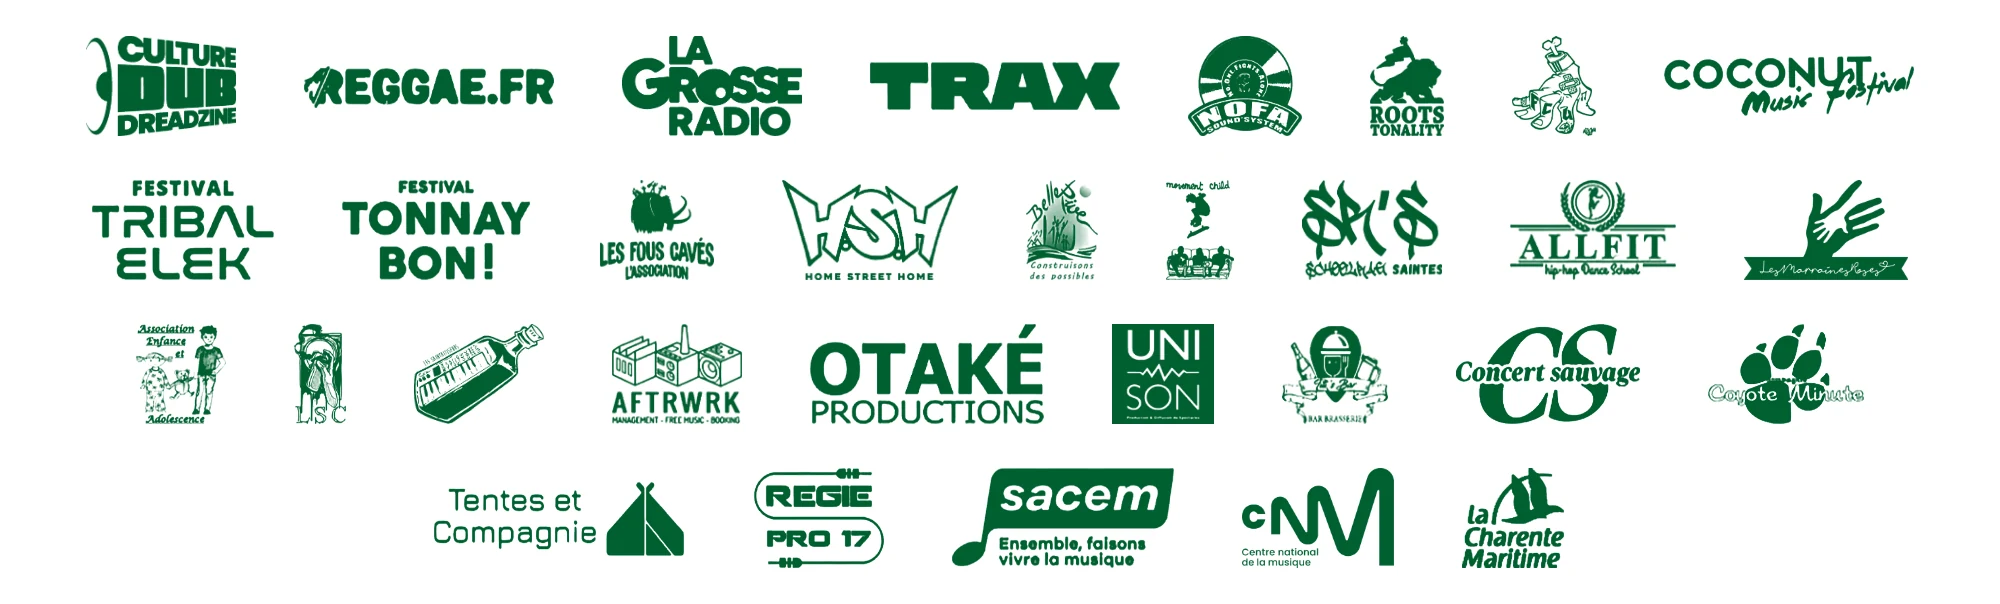
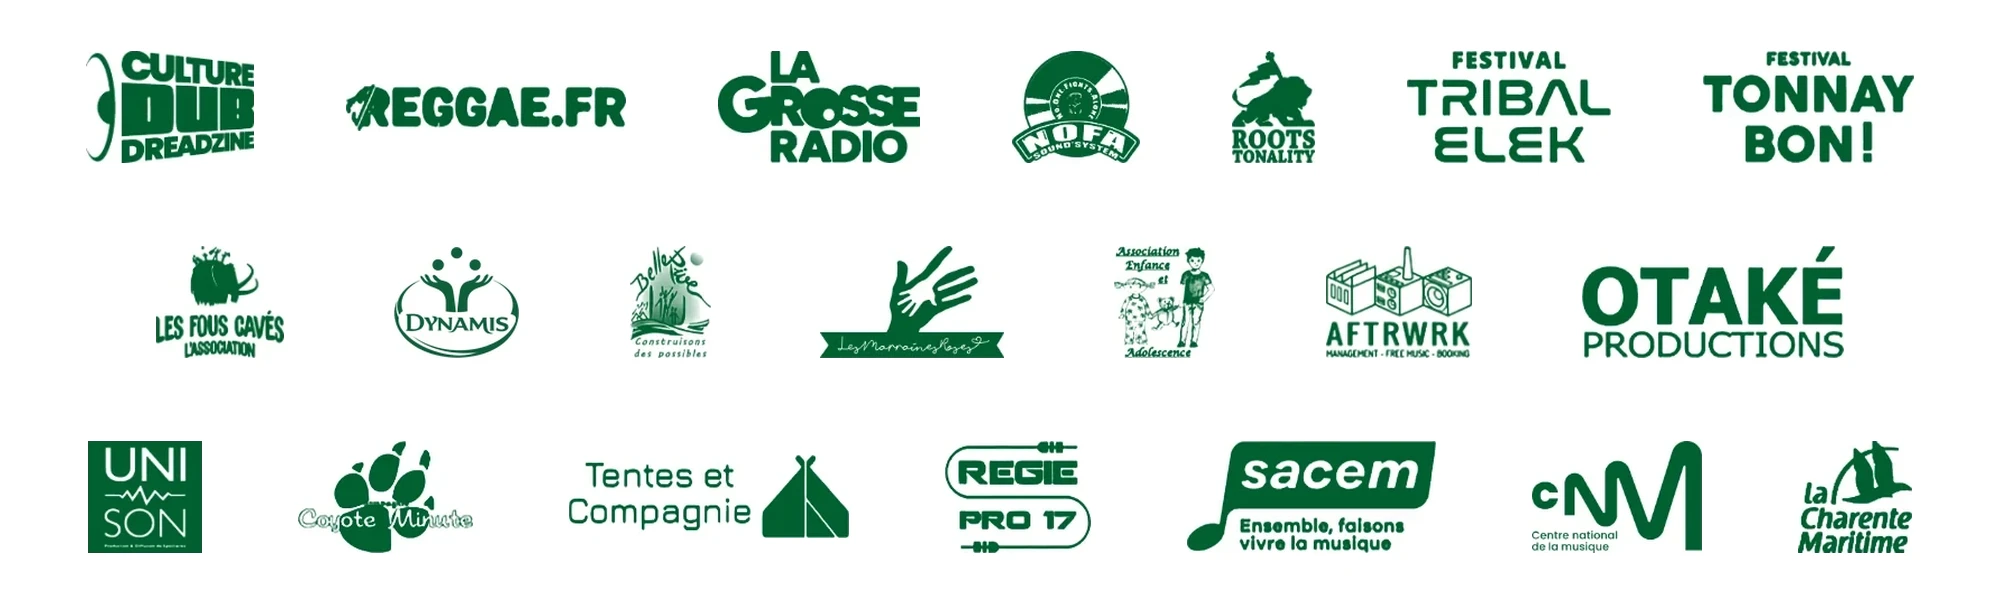
maj

diff --git a/index.html b/index.html
@@ -178,7 +178,7 @@
 <section id="partenaires"><div class="wrap">
 <div class="eyebrow">Merci</div><h2 class="ht"><img src="assets/img/titres/18a5ba05cd.webp" alt="" aria-hidden="true" width="1598" height="131" style="width:14.39em"><span class="sr">Ils nous soutiennent</span></h2>
 <p class="lead">Collectivités, lieux, associations, médias et entreprises : merci à tous ceux qui rendent ces événements possibles.</p>
-<div class="plogos"><div class="pgimg pgd"><img src="assets/img/partenaires/partenaires-principaux.webp" alt="Logos : La Graine d’Orge, Restaurant Chez les Filles, Optical Center, GNK Sécurité, ArtGrafik Digital, Les Crocodiles, Collectif Ensemble pour une Maison Solidaire" width="2000" height="288" loading="lazy" decoding="async"><a class="pglink" href="https://www.bar-graine-dorge.fr/" target="_blank" rel="noopener" aria-label="La Graine d’Orge" style="left:2.08%;top:12.50%;width:12.60%;height:75.00%"></a><a class="pglink" href="https://chezlesfillesrestaurant.fr/" target="_blank" rel="noopener" aria-label="Restaurant Chez les Filles" style="left:17.28%;top:12.50%;width:8.59%;height:75.00%"></a><a class="pglink" href="https://opticien.optical-center.fr/66-opticien-saint-georges-des-coteaux-saintes-optical-center" target="_blank" rel="noopener" aria-label="Optical Center" style="left:28.47%;top:12.50%;width:7.18%;height:75.00%"></a><a class="pglink" href="https://www.nk-securite.com/" target="_blank" rel="noopener" aria-label="GNK Sécurité" style="left:38.25%;top:12.50%;width:12.70%;height:75.00%"></a><a class="pglink" href="https://www.artgrafik.fr" target="_blank" rel="noopener" aria-label="ArtGrafik Digital" style="left:53.45%;top:12.50%;width:12.60%;height:75.00%"></a><a class="pglink" href="https://www.facebook.com/lescrocodilesaems" target="_blank" rel="noopener" aria-label="Les Crocodiles" style="left:71.45%;top:12.50%;width:11.27%;height:75.00%"></a><a class="pglink" href="https://maisondelasolidarite.wordpress.com" target="_blank" rel="noopener" aria-label="Collectif Ensemble pour une Maison Solidaire" style="left:85.32%;top:12.50%;width:12.60%;height:75.00%"></a></div><div class="pgimg pgm"><img src="assets/img/partenaires/partenaires-principaux-mobile.webp" alt="Logos : La Graine d’Orge, Restaurant Chez les Filles, Optical Center, GNK Sécurité, ArtGrafik Digital, Les Crocodiles, Collectif Ensemble pour une Maison Solidaire" width="1120" height="492" loading="lazy" decoding="async"><a class="pglink" href="https://www.bar-graine-dorge.fr/" target="_blank" rel="noopener" aria-label="La Graine d’Orge" style="left:9.59%;top:7.32%;width:20.57%;height:39.02%"></a><a class="pglink" href="https://chezlesfillesrestaurant.fr/" target="_blank" rel="noopener" aria-label="Restaurant Chez les Filles" style="left:34.80%;top:7.32%;width:13.63%;height:39.02%"></a><a class="pglink" href="https://opticien.optical-center.fr/66-opticien-saint-georges-des-coteaux-saintes-optical-center" target="_blank" rel="noopener" aria-label="Optical Center" style="left:53.07%;top:7.32%;width:11.40%;height:39.02%"></a><a class="pglink" href="https://www.nk-securite.com/" target="_blank" rel="noopener" aria-label="GNK Sécurité" style="left:69.05%;top:7.32%;width:21.35%;height:39.02%"></a><a class="pglink" href="https://www.artgrafik.fr" target="_blank" rel="noopener" aria-label="ArtGrafik Digital" style="left:14.57%;top:53.66%;width:22.75%;height:39.02%"></a><a class="pglink" href="https://www.facebook.com/lescrocodilesaems" target="_blank" rel="noopener" aria-label="Les Crocodiles" style="left:41.97%;top:53.66%;width:17.89%;height:39.02%"></a><a class="pglink" href="https://maisondelasolidarite.wordpress.com" target="_blank" rel="noopener" aria-label="Collectif Ensemble pour une Maison Solidaire" style="left:64.50%;top:53.66%;width:20.93%;height:39.02%"></a></div><div class="pgimg pgd"><img src="assets/img/partenaires/salle-materiel-services.webp" alt="Logos : Ville de Saintes, Espace Saint-Eutrope · Chapelle Chavagne, Abbaye aux Dames, cité musicale, APMAC, Ekinox, AIDES Charente-Maritime, Imprim’ Ton ID" width="2000" height="224" loading="lazy" decoding="async"><a class="pglink" href="https://imprimtonid.fr/" target="_blank" rel="noopener" aria-label="Imprim’ Ton ID" style="left:83.14%;top:16.07%;width:8.79%;height:67.86%"></a></div><div class="pgimg pgm"><img src="assets/img/partenaires/salle-materiel-services-mobile.webp" alt="Logos : Ville de Saintes, Espace Saint-Eutrope · Chapelle Chavagne, Abbaye aux Dames, cité musicale, APMAC, Ekinox, AIDES Charente-Maritime, Imprim’ Ton ID" width="1120" height="372" loading="lazy" decoding="async"><a class="pglink" href="https://imprimtonid.fr/" target="_blank" rel="noopener" aria-label="Imprim’ Ton ID" style="left:58.90%;top:54.84%;width:13.63%;height:35.48%"></a></div><div class="pgimg pgd"><img src="assets/img/partenaires/autres-soutiens.webp" alt="Logos : Culture Dub, Reggae.fr, La Grosse Radio, Trax, NOFA Sound System, Roots Tonality, Festival des Cultures Urbaines, Coconut Music Festival, Festival Tribal Elek, Festival Tonnay Bon !, Les Fous Cavés, Home Street Home, Belle Rive, Movement Child, SchoolRag’ Saintes, Allfit, Les Marraines Roses, Association Enfance et Adolescence, LSC, Les Saintaitiseurs, AFTRWRK, Otaké Productions, UNI-SON, Titi’s Bar, Concert sauvage, Coyote Minute, Tentes et Compagnie, Régie Pro 17, SACEM, Centre national de la musique, La Charente-Maritime" width="2000" height="604" loading="lazy" decoding="async"></div><div class="pgimg pgm"><img src="assets/img/partenaires/autres-soutiens-mobile.webp" alt="Logos : Culture Dub, Reggae.fr, La Grosse Radio, Trax, NOFA Sound System, Roots Tonality, Festival des Cultures Urbaines, Coconut Music Festival, Festival Tribal Elek, Festival Tonnay Bon !, Les Fous Cavés, Home Street Home, Belle Rive, Movement Child, SchoolRag’ Saintes, Allfit, Les Marraines Roses, Association Enfance et Adolescence, LSC, Les Saintaitiseurs, AFTRWRK, Otaké Productions, UNI-SON, Titi’s Bar, Concert sauvage, Coyote Minute, Tentes et Compagnie, Régie Pro 17, SACEM, Centre national de la musique, La Charente-Maritime" width="1120" height="616" loading="lazy" decoding="async"></div></div><div class="card" style="margin-top:16px"><h3>Partenaires de la 8<sup>e</sup> édition</h3><p style="margin:0 0 6px"><b>Un merci tout particulier</b> à La Graine d’Orge, au restaurant Chez les Filles, à Optical Center, à GNK Sécurité, à ArtGrafik Digital, à la Ville de Saintes, qui soutiennent la soirée financièrement.</p></div>
+<div class="plogos"><div class="pgimg pgd"><img src="assets/img/partenaires/partenaires-principaux.webp" alt="Logos : La Graine d’Orge, Restaurant Chez les Filles, Optical Center, GNK Sécurité, ArtGrafik Digital, Les Crocodiles, Collectif Ensemble pour une Maison Solidaire" width="2000" height="288" loading="lazy" decoding="async"><a class="pglink" href="https://www.bar-graine-dorge.fr/" target="_blank" rel="noopener" aria-label="La Graine d’Orge" style="left:2.08%;top:12.50%;width:12.60%;height:75.00%"></a><a class="pglink" href="https://chezlesfillesrestaurant.fr/" target="_blank" rel="noopener" aria-label="Restaurant Chez les Filles" style="left:17.28%;top:12.50%;width:8.59%;height:75.00%"></a><a class="pglink" href="https://opticien.optical-center.fr/66-opticien-saint-georges-des-coteaux-saintes-optical-center" target="_blank" rel="noopener" aria-label="Optical Center" style="left:28.47%;top:12.50%;width:7.18%;height:75.00%"></a><a class="pglink" href="https://www.nk-securite.com/" target="_blank" rel="noopener" aria-label="GNK Sécurité" style="left:38.25%;top:12.50%;width:12.70%;height:75.00%"></a><a class="pglink" href="https://www.artgrafik.fr" target="_blank" rel="noopener" aria-label="ArtGrafik Digital" style="left:53.45%;top:12.50%;width:12.60%;height:75.00%"></a><a class="pglink" href="https://www.facebook.com/lescrocodilesaems" target="_blank" rel="noopener" aria-label="Les Crocodiles" style="left:71.45%;top:12.50%;width:11.27%;height:75.00%"></a><a class="pglink" href="https://maisondelasolidarite.wordpress.com" target="_blank" rel="noopener" aria-label="Collectif Ensemble pour une Maison Solidaire" style="left:85.32%;top:12.50%;width:12.60%;height:75.00%"></a></div><div class="pgimg pgm"><img src="assets/img/partenaires/partenaires-principaux-mobile.webp" alt="Logos : La Graine d’Orge, Restaurant Chez les Filles, Optical Center, GNK Sécurité, ArtGrafik Digital, Les Crocodiles, Collectif Ensemble pour une Maison Solidaire" width="1120" height="492" loading="lazy" decoding="async"><a class="pglink" href="https://www.bar-graine-dorge.fr/" target="_blank" rel="noopener" aria-label="La Graine d’Orge" style="left:9.59%;top:7.32%;width:20.57%;height:39.02%"></a><a class="pglink" href="https://chezlesfillesrestaurant.fr/" target="_blank" rel="noopener" aria-label="Restaurant Chez les Filles" style="left:34.80%;top:7.32%;width:13.63%;height:39.02%"></a><a class="pglink" href="https://opticien.optical-center.fr/66-opticien-saint-georges-des-coteaux-saintes-optical-center" target="_blank" rel="noopener" aria-label="Optical Center" style="left:53.07%;top:7.32%;width:11.40%;height:39.02%"></a><a class="pglink" href="https://www.nk-securite.com/" target="_blank" rel="noopener" aria-label="GNK Sécurité" style="left:69.05%;top:7.32%;width:21.35%;height:39.02%"></a><a class="pglink" href="https://www.artgrafik.fr" target="_blank" rel="noopener" aria-label="ArtGrafik Digital" style="left:14.57%;top:53.66%;width:22.75%;height:39.02%"></a><a class="pglink" href="https://www.facebook.com/lescrocodilesaems" target="_blank" rel="noopener" aria-label="Les Crocodiles" style="left:41.97%;top:53.66%;width:17.89%;height:39.02%"></a><a class="pglink" href="https://maisondelasolidarite.wordpress.com" target="_blank" rel="noopener" aria-label="Collectif Ensemble pour une Maison Solidaire" style="left:64.50%;top:53.66%;width:20.93%;height:39.02%"></a></div><div class="pgimg pgd"><img src="assets/img/partenaires/salle-materiel-services.webp" alt="Logos : Ville de Saintes, Espace Saint-Eutrope · Chapelle Chavagne, Abbaye aux Dames, cité musicale, APMAC, Ekinox, AIDES Charente-Maritime, Imprim’ Ton ID" width="2000" height="224" loading="lazy" decoding="async"><a class="pglink" href="https://imprimtonid.fr/" target="_blank" rel="noopener" aria-label="Imprim’ Ton ID" style="left:83.14%;top:16.07%;width:8.79%;height:67.86%"></a></div><div class="pgimg pgm"><img src="assets/img/partenaires/salle-materiel-services-mobile.webp" alt="Logos : Ville de Saintes, Espace Saint-Eutrope · Chapelle Chavagne, Abbaye aux Dames, cité musicale, APMAC, Ekinox, AIDES Charente-Maritime, Imprim’ Ton ID" width="1120" height="372" loading="lazy" decoding="async"><a class="pglink" href="https://imprimtonid.fr/" target="_blank" rel="noopener" aria-label="Imprim’ Ton ID" style="left:58.90%;top:54.84%;width:13.63%;height:35.48%"></a></div><div class="pgimg pgd"><img src="assets/img/partenaires/autres-soutiens.webp" alt="Logos : Culture Dub, Reggae.fr, La Grosse Radio, NOFA Sound System, Roots Tonality, Festival Tribal Elek, Festival Tonnay Bon !, Les Fous Cavés, Dynamis, Belle Rive, Les Marraines Roses, Association Enfance et Adolescence, AFTRWRK, Otaké Productions, UNI-SON, Coyote Minute, Tentes et Compagnie, Régie Pro 17, SACEM, Centre national de la musique, La Charente-Maritime" width="2000" height="604" loading="lazy" decoding="async"></div><div class="pgimg pgm"><img src="assets/img/partenaires/autres-soutiens-mobile.webp" alt="Logos : Culture Dub, Reggae.fr, La Grosse Radio, NOFA Sound System, Roots Tonality, Festival Tribal Elek, Festival Tonnay Bon !, Les Fous Cavés, Dynamis, Belle Rive, Les Marraines Roses, Association Enfance et Adolescence, AFTRWRK, Otaké Productions, UNI-SON, Coyote Minute, Tentes et Compagnie, Régie Pro 17, SACEM, Centre national de la musique, La Charente-Maritime" width="1120" height="616" loading="lazy" decoding="async"></div></div><div class="card" style="margin-top:16px"><h3>Partenaires de la 8<sup>e</sup> édition</h3><p style="margin:0 0 6px"><b>Un merci tout particulier</b> à La Graine d’Orge, au restaurant Chez les Filles, à Optical Center, à GNK Sécurité, à ArtGrafik Digital, à la Ville de Saintes, qui soutiennent la soirée financièrement.</p></div>
 <div class="card becomep"><div><div class="eyebrow">ENTREPRISES ET COMMERCES</div><h3>Devenez partenaire de la 8<sup>e</sup> édition</h3>
 <p>Votre soutien, même modeste, aide à garder une soirée accessible et solidaire. Don financier, don en nature ou en matériel, apport en visibilité : nous étudions toutes les propositions, à toutes les échelles. En retour : votre logo sur place et sur nos réseaux, et votre nom associé à une soirée solidaire. Toutes les infos sont dans le dossier partenaires.</p></div>
 <div class="row becomep-btns"><a class="btn btn-red" href="https://www.helloasso.com/associations/jump-around/formulaires/3" target="_blank" rel="noopener" data-track="DonClick" data-src="partenaires">Devenir partenaire</a><a class="btn btn-green" href="presse/Jump-Around_Dossier-partenaires.pdf" target="_blank" rel="noopener">Le dossier partenaires (PDF)</a><a class="btn btn-ghost" href="mailto:assojumparound@gmail.com?subject=Partenariat%20Le%20P%C3%A8re%20No%C3%ABl%20est%20un%20Dubber">Nous écrire</a></div></div>
